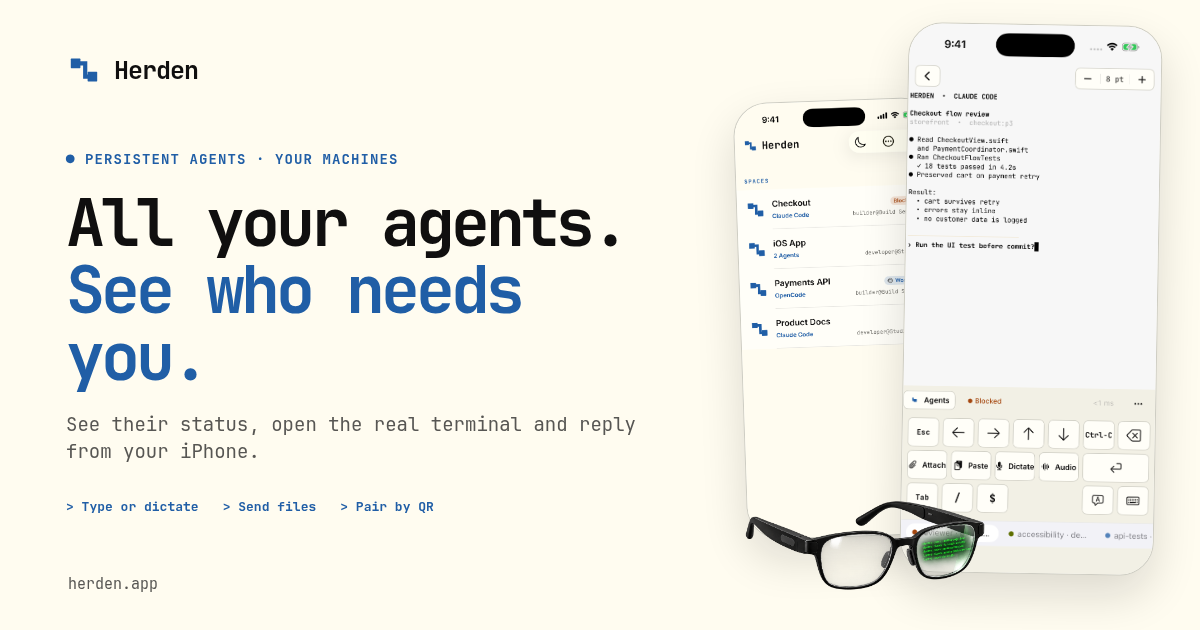
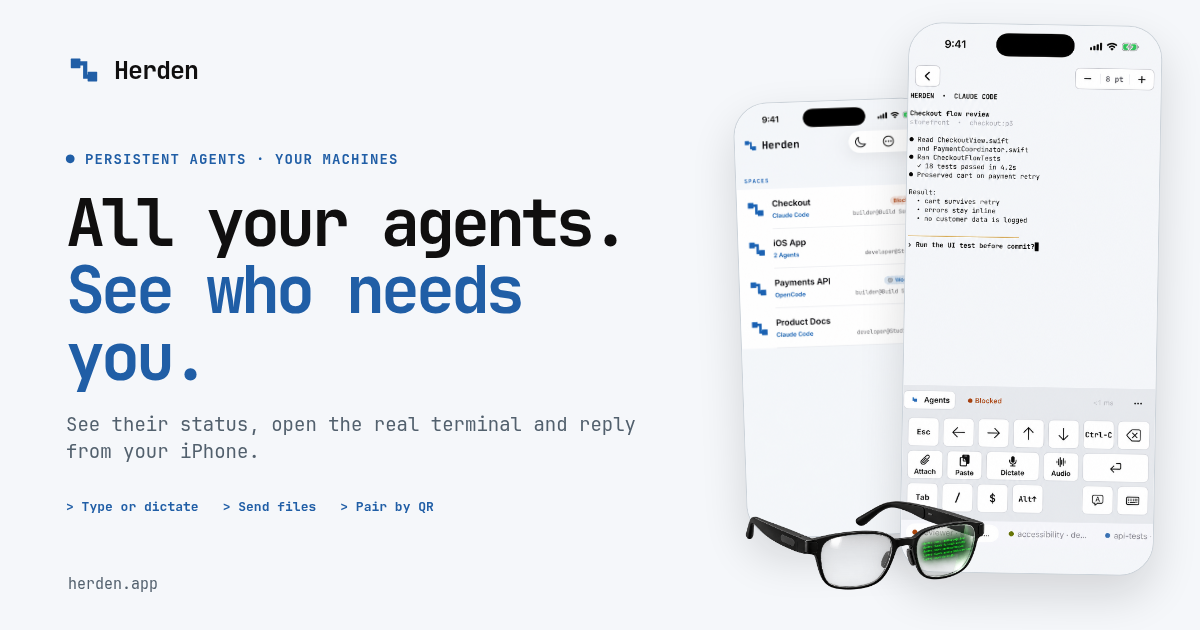
Refresh Herden site appearance and Space screenshots

diff --git a/landing/src/styles/landing.css b/landing/src/styles/landing.css
@@ -15,16 +15,16 @@
 }
 
 :root {
-  /* Paper + Cobalt. These semantic values match the native app. */
-  --herden-canvas: #fffcf0;
-  --herden-surface: #f2f0e5;
-  --herden-raised: #fffef8;
-  --herden-pressed: #e6e4d9;
+  /* Cool grey for the public page and its edited hero captures. */
+  --herden-canvas: #f5f7fa;
+  --herden-surface: #e4e7eb;
+  --herden-raised: #ffffff;
+  --herden-pressed: #cbd2d9;
   --herden-ink: #100f0f;
-  --herden-muted: #575653;
-  --herden-subtle: #6f6e69;
-  --herden-border: #cecdc3;
-  --herden-border-strong: #b7b5ac;
+  --herden-muted: #52606d;
+  --herden-subtle: #616e7c;
+  --herden-border: #cbd2d9;
+  --herden-border-strong: #9aa5b1;
   --herden-primary: #205ea6;
   --herden-primary-hover: #1a4f8c;
   --herden-primary-soft: rgba(32, 94, 166, 0.1);
@@ -33,8 +33,8 @@
   --herden-attention-soft: rgba(188, 82, 21, 0.1);
   --herden-success: #5e6f00;
   --herden-fault: #af3029;
-  --primary-fill-text: #fffcf0;
-  --code-foreground: #f2f0e5;
+  --primary-fill-text: #ffffff;
+  --code-foreground: #e4e7eb;
 
   --font-display: "JetBrains Mono", ui-monospace, "SFMono-Regular", Menlo, monospace;
   --font-sans: "JetBrains Mono", ui-monospace, "SFMono-Regular", Menlo, monospace;
@@ -53,7 +53,7 @@
   --surface-active: var(--herden-pressed);
   --surface-selected: var(--herden-primary-soft);
   --surface-overlay: rgba(16, 15, 15, 0.62);
-  --surface-glass: rgba(255, 252, 240, 0.9);
+  --surface-glass: rgba(245, 247, 250, 0.9);
   --surface-elevated: var(--herden-surface);
 
   --text-primary: var(--herden-ink);
@@ -83,8 +83,10 @@
 
 html {
   scroll-behavior: smooth;
-  color-scheme: light dark;
+  color-scheme: light;
 }
+
+html[data-theme="dark"] { color-scheme: dark; }
 
 body {
   background: var(--surface-canvas);
@@ -151,8 +153,7 @@ summary:focus-visible {
   text-transform: uppercase;
 }
 
-@media (prefers-color-scheme: dark) {
-  :root {
+:root[data-theme="dark"] {
     --herden-canvas: #100f0f;
     --herden-surface: #1c1b1a;
     --herden-raised: #282726;
@@ -176,7 +177,6 @@ summary:focus-visible {
     --surface-overlay: rgba(0, 0, 0, 0.7);
     --surface-glass: rgba(16, 15, 15, 0.9);
     --grid-line: rgba(67, 133, 190, 0.055);
-  }
 }
 
 .section-title {

diff --git a/landing/og-card.html b/landing/og-card.html
@@ -17,11 +17,11 @@
       }
 
       :root {
-        --canvas: #fffcf0;
-        --raised: #fffef8;
+        --canvas: #f5f7fa;
+        --raised: #ffffff;
         --ink: #100f0f;
-        --muted: #575653;
-        --border: #cecdc3;
+        --muted: #52606d;
+        --border: #cbd2d9;
         --primary: #205ea6;
       }
 

diff --git a/landing/README.md b/landing/README.md
@@ -59,7 +59,12 @@ assets are under the SIL Open Font License 1.1; no font service is required.
 
 The hero screenshots come from the app's deterministic `--demo-screenshots`
 fixture. Its Hosts use `.demo.invalid` addresses and its Spaces and Agents are
-privacy-safe sample data. Never publish a capture of real Spaces or project names.
+privacy-safe sample data. The Spaces capture shows Claude Code, Codex, Pi and
+a zsh terminal with distinct pixel-letter marks. For the public hero, the warm
+neutral planes in those captures are recoloured to match the site's cool-grey
+light palette; UI content
+and native app appearance are otherwise unchanged. Never publish a capture of
+real Spaces or project names.
 
 The smaller AR glasses stay visible alongside both phones in the hero and link
 to `/ar`. Their transparent artwork uses the real Even G2 simulator's generic
@@ -70,9 +75,12 @@ endpoint.
 
 ## Paper + Cobalt
 
-The public site and native app share the same light and dark semantic palette.
-Live Tether and primary controls use cobalt. Rust is reserved for attention,
-green for success, and red for failure or destructive actions.
+The website uses cool-grey light surfaces and matching demo-screen neutrals;
+the native app keeps its Paper surfaces. The header Light/Dark button follows
+the device appearance until someone chooses a mode, then saves that choice
+for later pages and visits. Live Tether and primary controls use the
+same cobalt. Rust is reserved for attention, green for success, and red for
+failure or destructive actions.
 
 `logo.png` and `favicon.png` bake Live Tether into a rounded Paper tile.
 `logo-light.svg` and `logo-dark.svg` provide appearance-specific transparent
@@ -80,11 +88,11 @@ marks for the header and footer.
 
 | Token | Value | Use |
 | --- | --- | --- |
-| Canvas | `#FFFCF0` / `#100F0F` | Light and dark page backgrounds |
-| Surface | `#F2F0E5` / `#1C1B1A` | Grouped and inset areas |
-| Raised | `#FFFEF8` / `#282726` | Cards and overlapping objects |
+| Canvas | `#F5F7FA` / `#100F0F` | Light and dark page backgrounds |
+| Surface | `#E4E7EB` / `#1C1B1A` | Grouped and inset areas |
+| Raised | `#FFFFFF` / `#282726` | Cards and overlapping objects |
 | Ink | `#100F0F` / `#F2F0E5` | Primary text |
-| Muted | `#575653` / `#B7B5AC` | Supporting text |
+| Muted | `#52606D` / `#B7B5AC` | Supporting text |
 | Primary | `#205EA6` / `#4385BE` | Live Tether, controls and links |
 | Attention | `#BC5215` / `#DA702C` | Pending, preview and recommended states |
 | Success | `#5E6F00` / `#879A39` | Healthy and completed states only |
